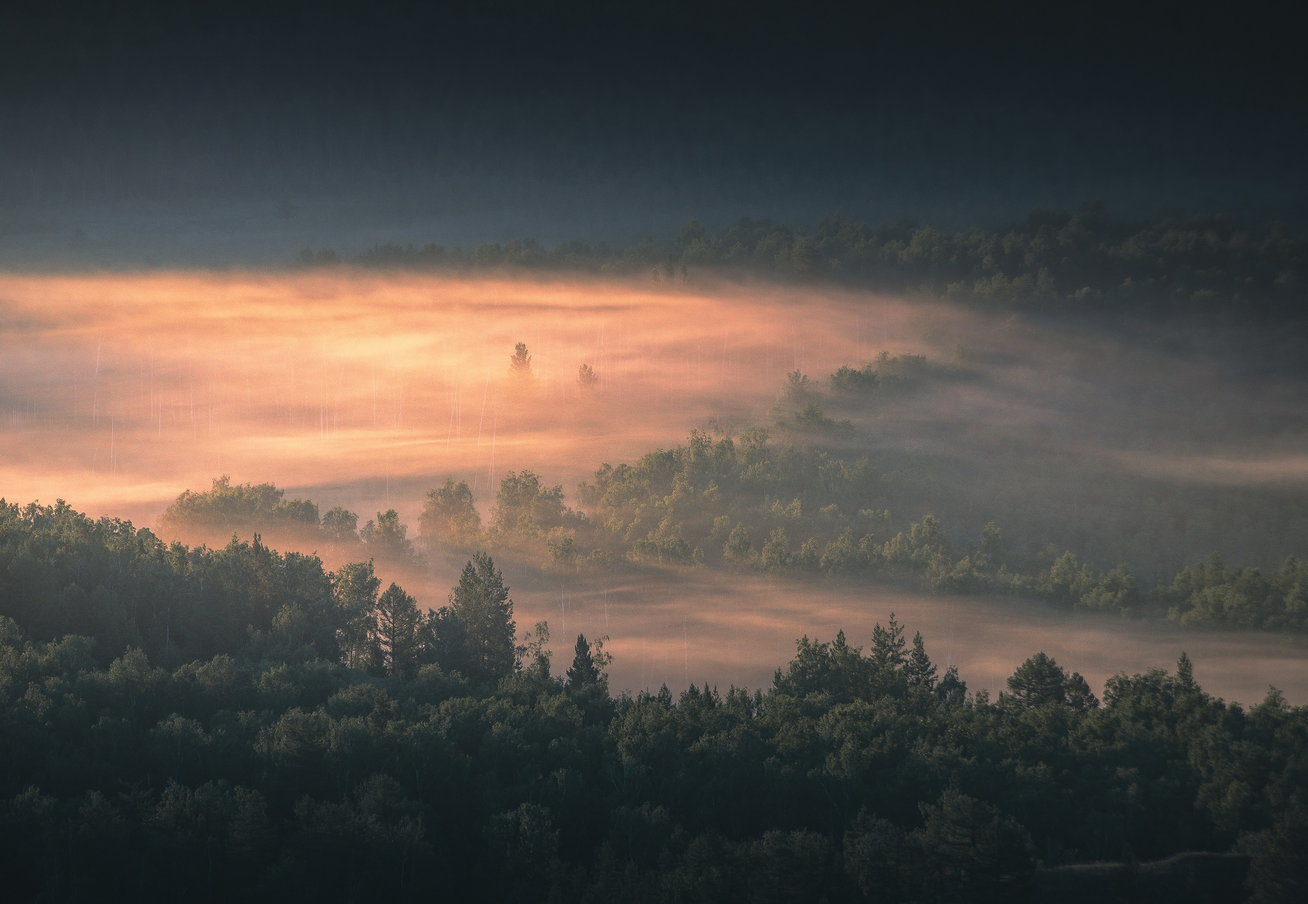
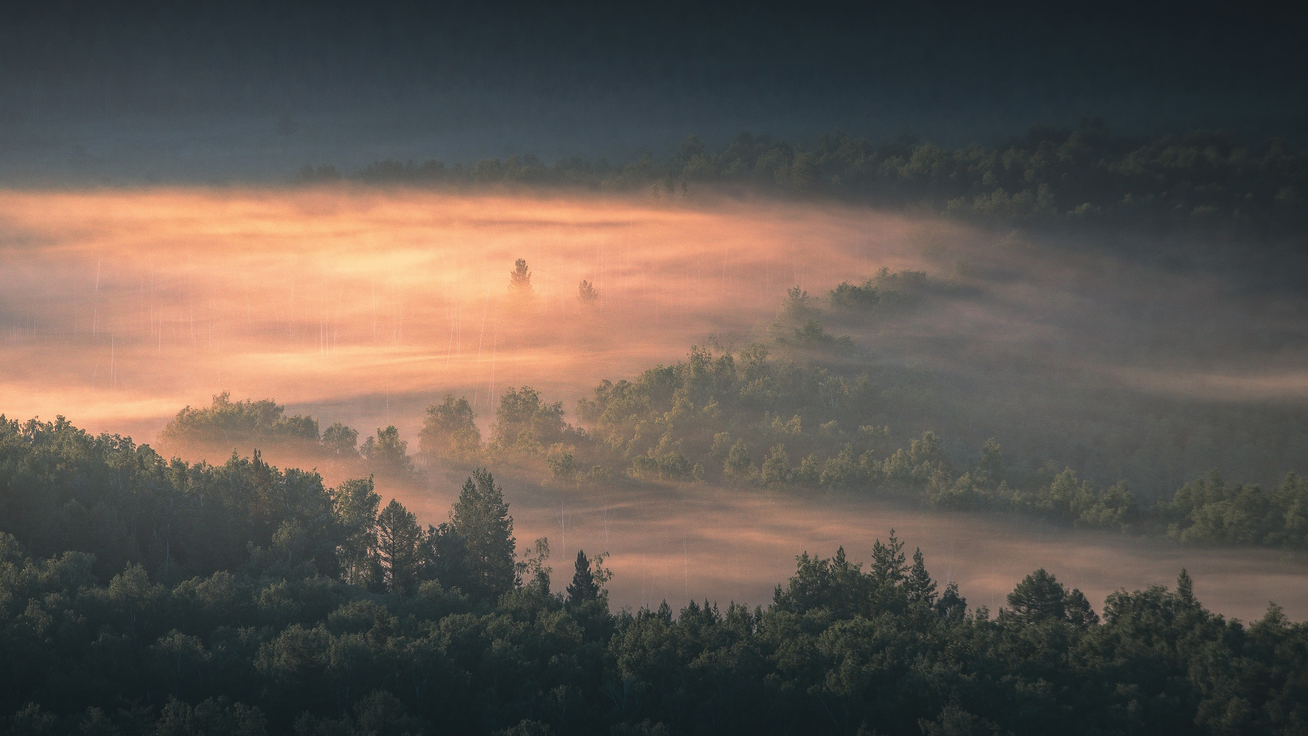
fix(wallpapers): resize landscape sources to 3840×2160 + flip rotate to crop
The landscape wallpapers were 3840×2655 (≈3:2), so the per-monitor
rewrite in v2.2.0 (which used awww --resize fit) drew the laptop's
16:9 panel with black bars on left and right.

Two fixes:
- Center-cropped all 5 landscape wallpapers to 3840×2160 (4K 16:9)
  so they fill any standard 16:9 panel and downscale cleanly to HiDPI.
- rotate_wallpaper.sh landscape default flipped from fit to crop, so
  on non-16:9 panels (16:10 / 21:9 / ultrawide) the wallpaper still
  scales-to-fill and trims overflow instead of letterboxing. Portrait
  monitors still use fit against the pre-cropped 1080×1920 variants.

diff --git a/CHANGELOG.md b/CHANGELOG.md
@@ -4,6 +4,15 @@ All notable changes to the Fox ML theme.
 
 ---
 
+## 2026-05-08 — v2.2.5
+
+### Fixes
+- **Landscape wallpapers letterboxed on 16:9 screens** — the source landscape wallpapers were 3840×2655 (~3:2), so `awww --resize fit` (introduced in v2.2.0's per-monitor rewrite) drew the laptop's 16:9 panel with black bars on left and right.
+- **Resized source wallpapers to 3840×2160** — center-cropped via ImageMagick. All 5 landscape wallpapers in `shared/wallpapers/` are now exactly 16:9, so they fill any standard 16:9 panel without scaling artifacts and downscale cleanly to HiDPI.
+- **`rotate_wallpaper.sh` landscape default flipped from `fit` to `crop`** — `crop` scales-to-fill and trims overflow rather than letterboxing. With the new 16:9 sources this is a no-op on 16:9 panels, but on 16:10 / 21:9 / ultrawide screens it still fills cleanly. Portrait monitors still use `fit` against the pre-cropped 1080×1920 variants for a 1:1 match.
+
+---
+
 ## 2026-05-08 — v2.2.4
 
 ### Fixes
